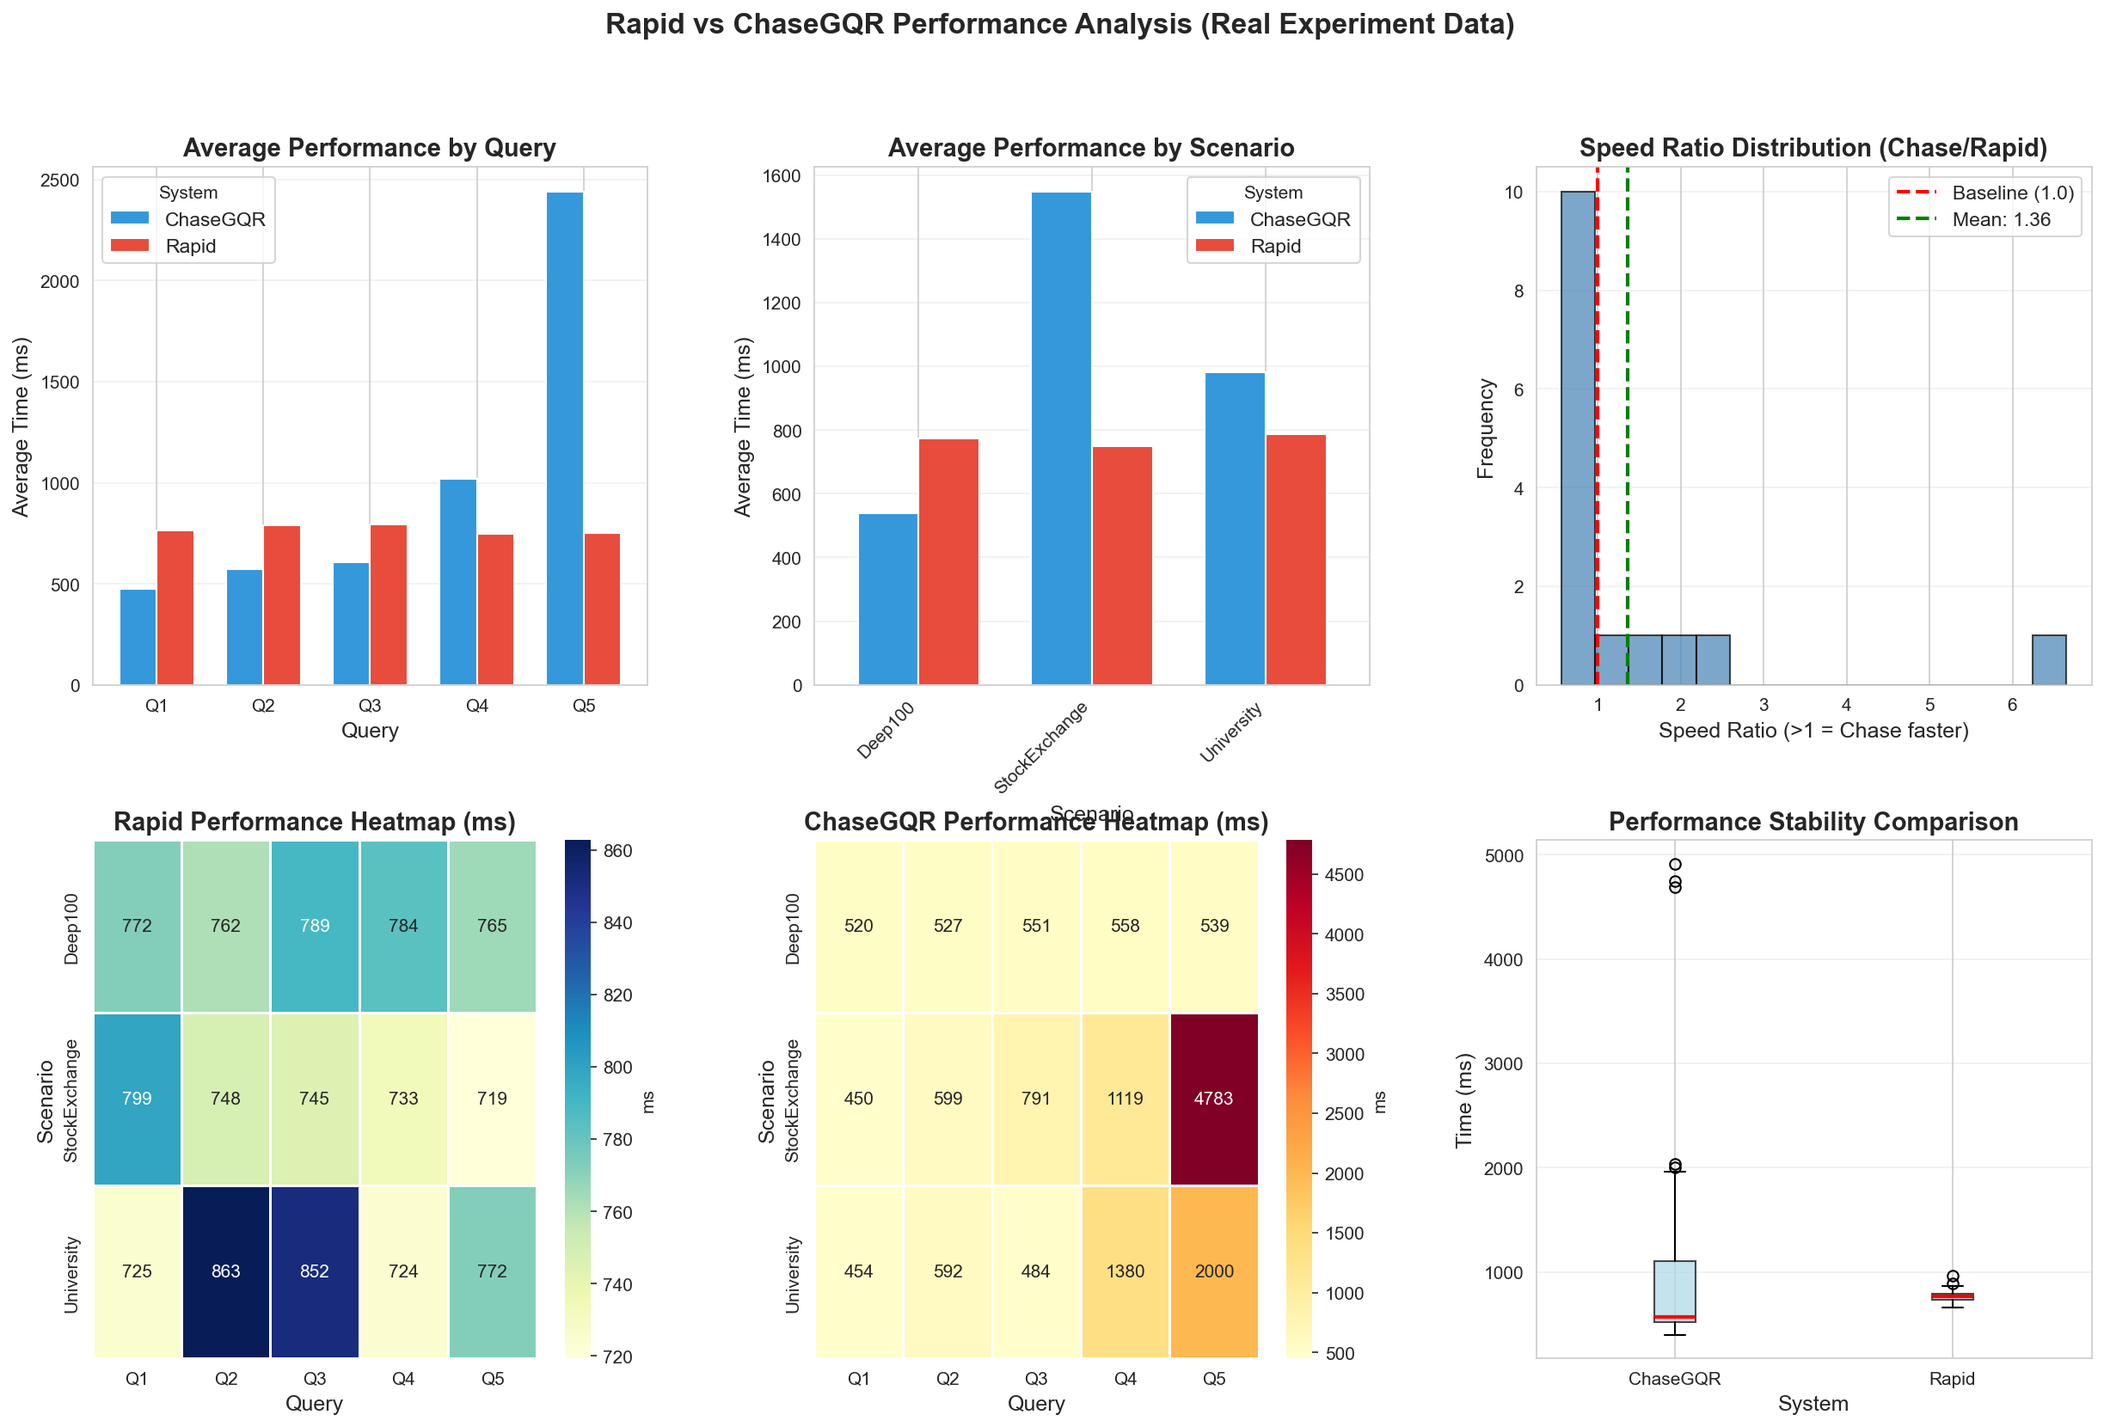
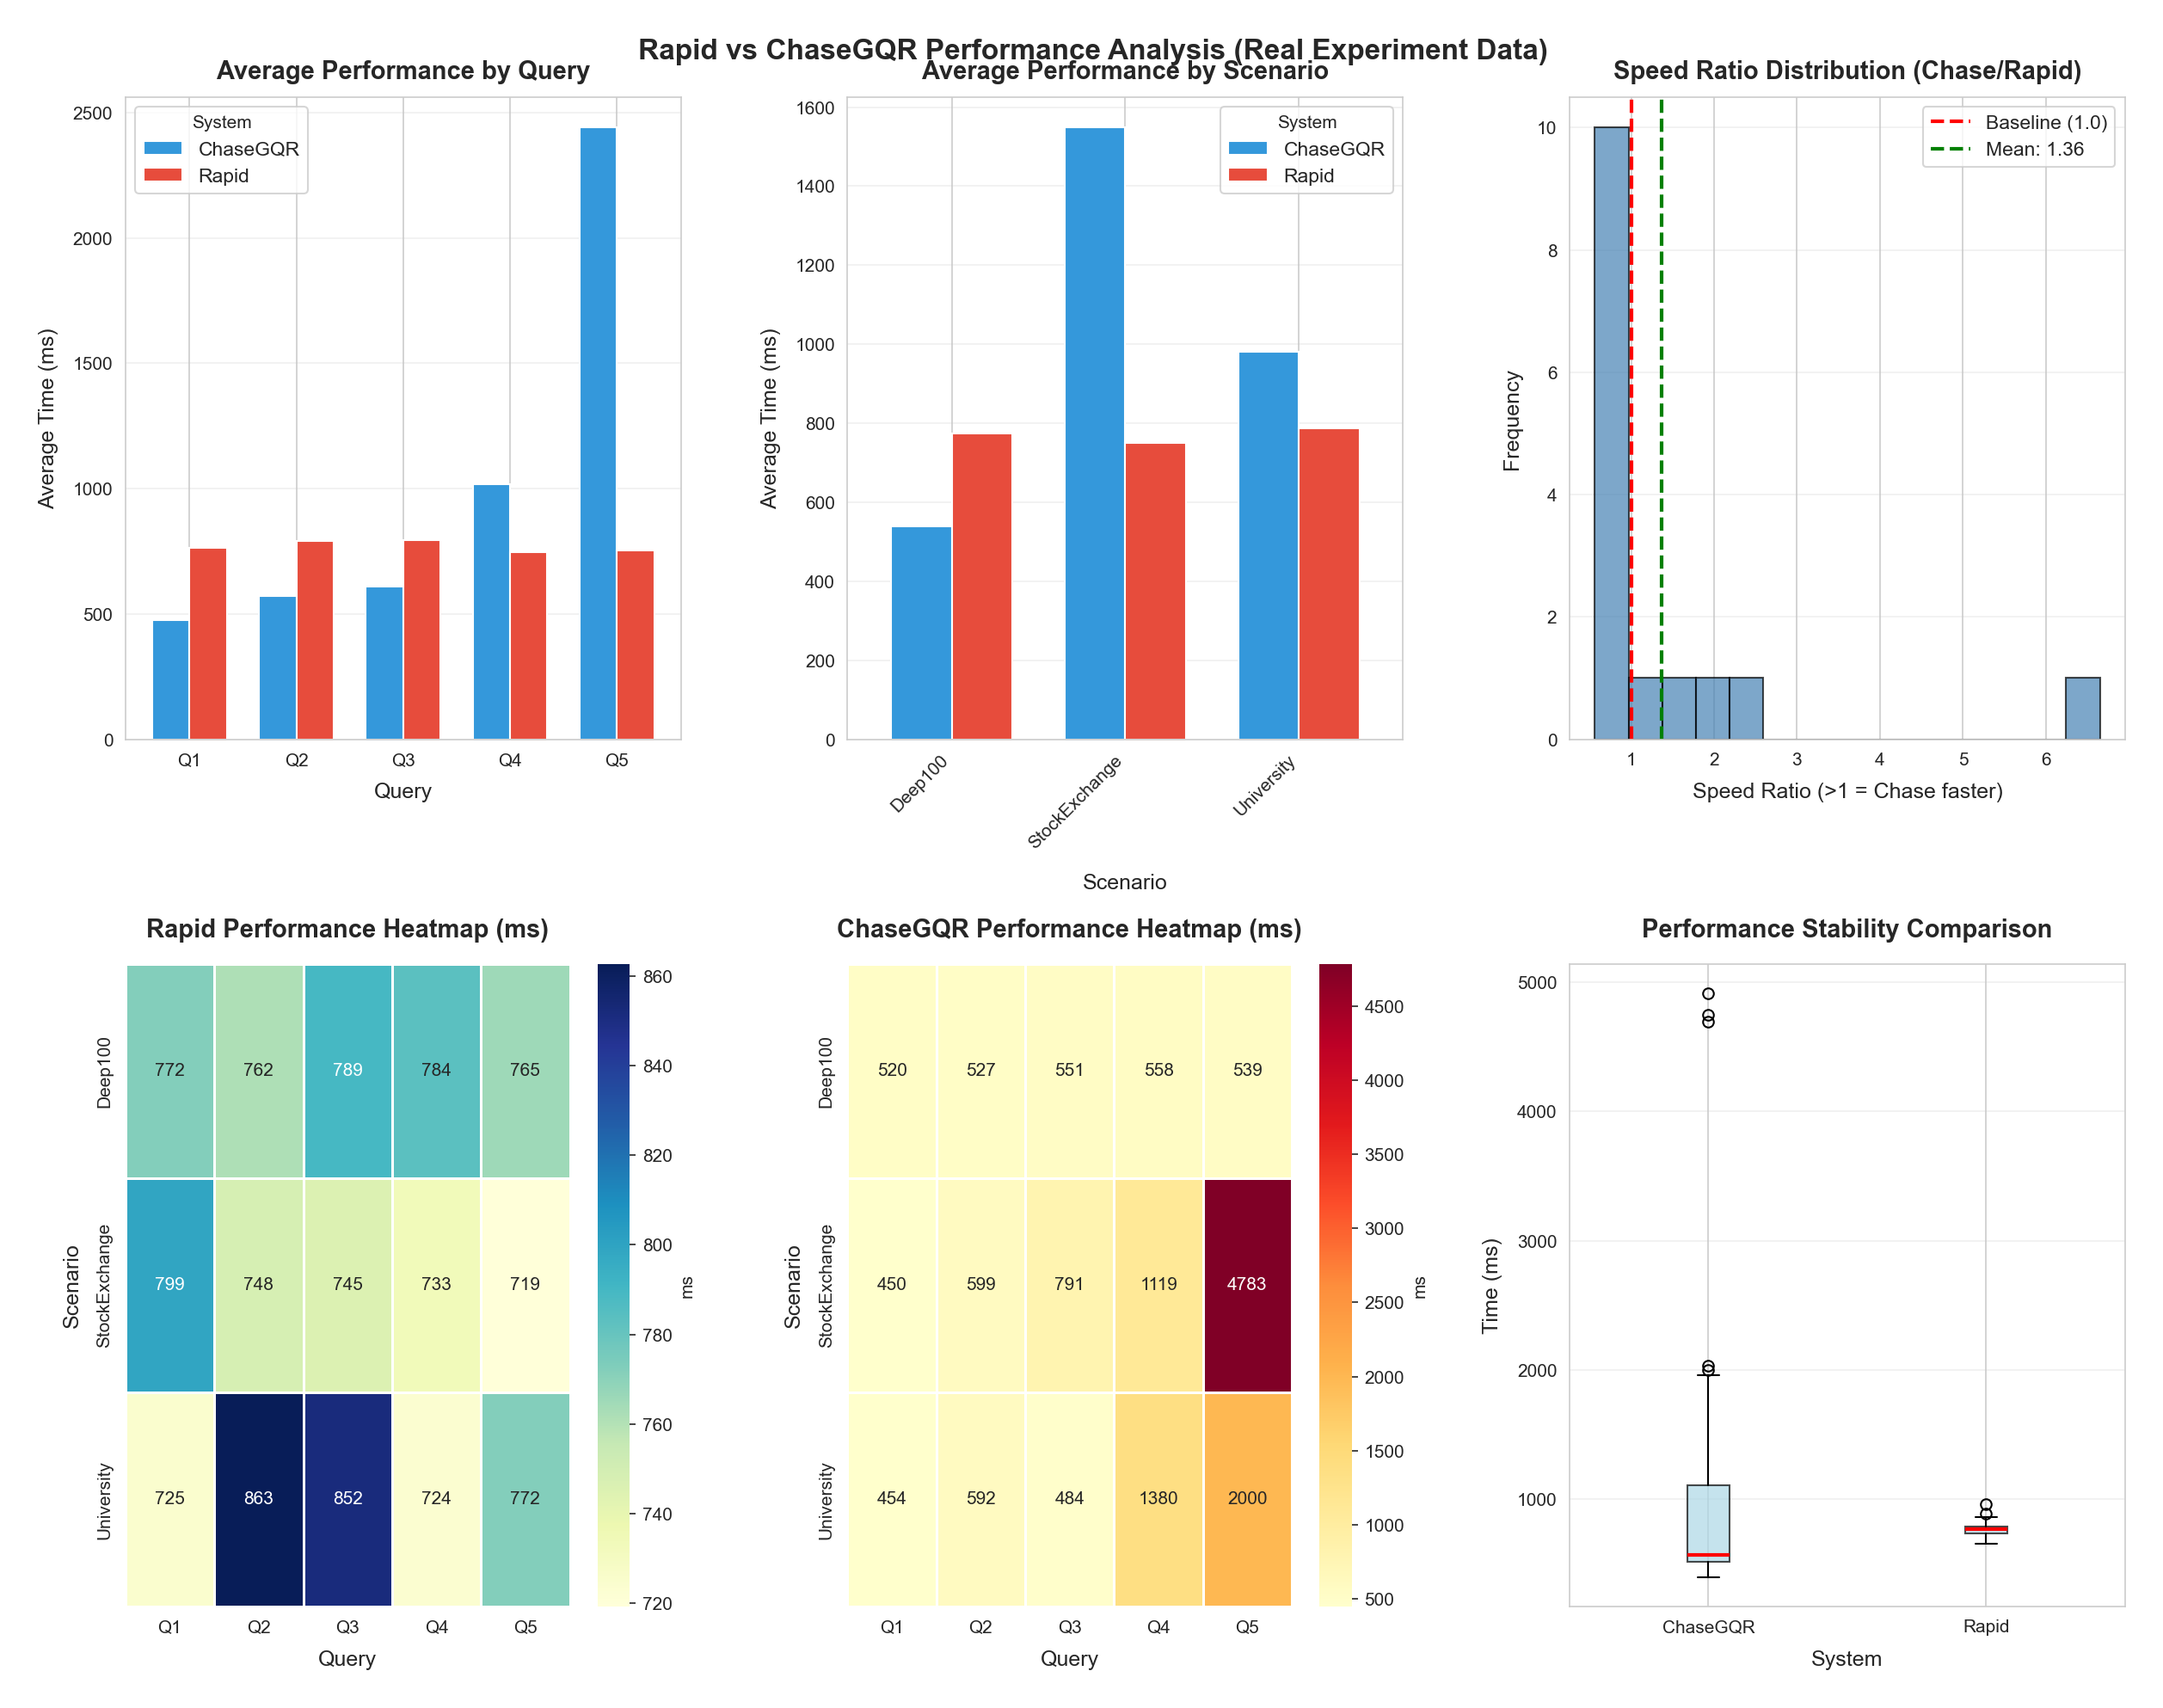
Optimize chart visualization: fix overlapping labels in Chart 2 and Chart 4

diff --git a/analyze_results.py b/analyze_results.py
@@ -88,16 +88,16 @@ def calculate_statistics(df):
 
 def create_charts(df, pivot):
     """Generate 6-panel visualization"""
-    fig = plt.figure(figsize=(20, 12))
-    gs = fig.add_gridspec(2, 3, hspace=0.3, wspace=0.3)
+    fig = plt.figure(figsize=(20, 13))
+    gs = fig.add_gridspec(2, 3, hspace=0.35, wspace=0.3, top=0.95, bottom=0.05)
     
     # Chart 1: Performance by Query
     ax1 = fig.add_subplot(gs[0, 0])
     query_perf = df.groupby(['Query', 'System'])['Time_ms'].mean().unstack()
     query_perf.plot(kind='bar', ax=ax1, color=['#3498db', '#e74c3c'], width=0.7)
-    ax1.set_title('Average Performance by Query', fontsize=14, fontweight='bold')
-    ax1.set_xlabel('Query', fontsize=12)
-    ax1.set_ylabel('Average Time (ms)', fontsize=12)
+    ax1.set_title('Average Performance by Query', fontsize=14, fontweight='bold', pad=10)
+    ax1.set_xlabel('Query', fontsize=12, labelpad=8)
+    ax1.set_ylabel('Average Time (ms)', fontsize=12, labelpad=8)
     ax1.legend(title='System', fontsize=11)
     ax1.grid(axis='y', alpha=0.3)
     plt.setp(ax1.xaxis.get_majorticklabels(), rotation=0)
@@ -106,9 +106,9 @@ def create_charts(df, pivot):
     ax2 = fig.add_subplot(gs[0, 1])
     scenario_perf = df.groupby(['Scenario', 'System'])['Time_ms'].mean().unstack()
     scenario_perf.plot(kind='bar', ax=ax2, color=['#3498db', '#e74c3c'], width=0.7)
-    ax2.set_title('Average Performance by Scenario', fontsize=14, fontweight='bold')
-    ax2.set_xlabel('Scenario', fontsize=12)
-    ax2.set_ylabel('Average Time (ms)', fontsize=12)
+    ax2.set_title('Average Performance by Scenario', fontsize=14, fontweight='bold', pad=10)
+    ax2.set_xlabel('Scenario', fontsize=12, labelpad=12)
+    ax2.set_ylabel('Average Time (ms)', fontsize=12, labelpad=8)
     ax2.legend(title='System', fontsize=11)
     ax2.grid(axis='y', alpha=0.3)
     plt.setp(ax2.xaxis.get_majorticklabels(), rotation=45, ha='right')
@@ -122,9 +122,9 @@ def create_charts(df, pivot):
         mean_ratio = ratios.mean()
         ax3.axvline(mean_ratio, color='green', linestyle='--', linewidth=2,
                    label=f'Mean: {mean_ratio:.2f}')
-        ax3.set_title('Speed Ratio Distribution (Chase/Rapid)', fontsize=14, fontweight='bold')
-        ax3.set_xlabel('Speed Ratio (>1 = Chase faster)', fontsize=12)
-        ax3.set_ylabel('Frequency', fontsize=12)
+        ax3.set_title('Speed Ratio Distribution (Chase/Rapid)', fontsize=14, fontweight='bold', pad=10)
+        ax3.set_xlabel('Speed Ratio (>1 = Chase faster)', fontsize=12, labelpad=8)
+        ax3.set_ylabel('Frequency', fontsize=12, labelpad=8)
         ax3.legend(fontsize=11)
         ax3.grid(axis='y', alpha=0.3)
     
@@ -135,9 +135,9 @@ def create_charts(df, pivot):
         rapid_heatmap = rapid_data.unstack()
         sns.heatmap(rapid_heatmap, annot=True, fmt='.0f', cmap='YlGnBu',
                    ax=ax4, cbar_kws={'label': 'ms'}, linewidths=0.5)
-        ax4.set_title('Rapid Performance Heatmap (ms)', fontsize=14, fontweight='bold')
-        ax4.set_xlabel('Query', fontsize=12)
-        ax4.set_ylabel('Scenario', fontsize=12)
+        ax4.set_title('Rapid Performance Heatmap (ms)', fontsize=14, fontweight='bold', pad=15)
+        ax4.set_xlabel('Query', fontsize=12, labelpad=8)
+        ax4.set_ylabel('Scenario', fontsize=12, labelpad=8)
     
     # Chart 5: ChaseGQR Heatmap
     ax5 = fig.add_subplot(gs[1, 1])
@@ -146,26 +146,26 @@ def create_charts(df, pivot):
         chase_heatmap = chase_data.unstack()
         sns.heatmap(chase_heatmap, annot=True, fmt='.0f', cmap='YlOrRd',
                    ax=ax5, cbar_kws={'label': 'ms'}, linewidths=0.5)
-        ax5.set_title('ChaseGQR Performance Heatmap (ms)', fontsize=14, fontweight='bold')
-        ax5.set_xlabel('Query', fontsize=12)
-        ax5.set_ylabel('Scenario', fontsize=12)
+        ax5.set_title('ChaseGQR Performance Heatmap (ms)', fontsize=14, fontweight='bold', pad=15)
+        ax5.set_xlabel('Query', fontsize=12, labelpad=8)
+        ax5.set_ylabel('Scenario', fontsize=12, labelpad=8)
     
     # Chart 6: Stability Comparison (Boxplot)
     ax6 = fig.add_subplot(gs[1, 2])
     systems = sorted(df['System'].unique())
     data_to_plot = [df[df['System'] == sys]['Time_ms'].values for sys in systems]
-    bp = ax6.boxplot(data_to_plot, labels=systems, patch_artist=True,
+    bp = ax6.boxplot(data_to_plot, tick_labels=systems, patch_artist=True,
                      boxprops=dict(facecolor='lightblue', alpha=0.7),
                      medianprops=dict(color='red', linewidth=2))
-    ax6.set_title('Performance Stability Comparison', fontsize=14, fontweight='bold')
-    ax6.set_xlabel('System', fontsize=12)
-    ax6.set_ylabel('Time (ms)', fontsize=12)
+    ax6.set_title('Performance Stability Comparison', fontsize=14, fontweight='bold', pad=15)
+    ax6.set_xlabel('System', fontsize=12, labelpad=8)
+    ax6.set_ylabel('Time (ms)', fontsize=12, labelpad=8)
     ax6.grid(axis='y', alpha=0.3)
     
     fig.suptitle('Rapid vs ChaseGQR Performance Analysis (Real Experiment Data)',
-                 fontsize=16, fontweight='bold', y=0.98)
+                 fontsize=16, fontweight='bold', y=0.985)
     
-    plt.savefig('FINAL_ANALYSIS_CHARTS.png', dpi=150, bbox_inches='tight')
+    plt.savefig('FINAL_ANALYSIS_CHARTS.png', dpi=150, bbox_inches='tight', pad_inches=0.3)
     print("✓ Saved: FINAL_ANALYSIS_CHARTS.png")
 
 def generate_report(df, pivot, global_stats, scenario_stats):
